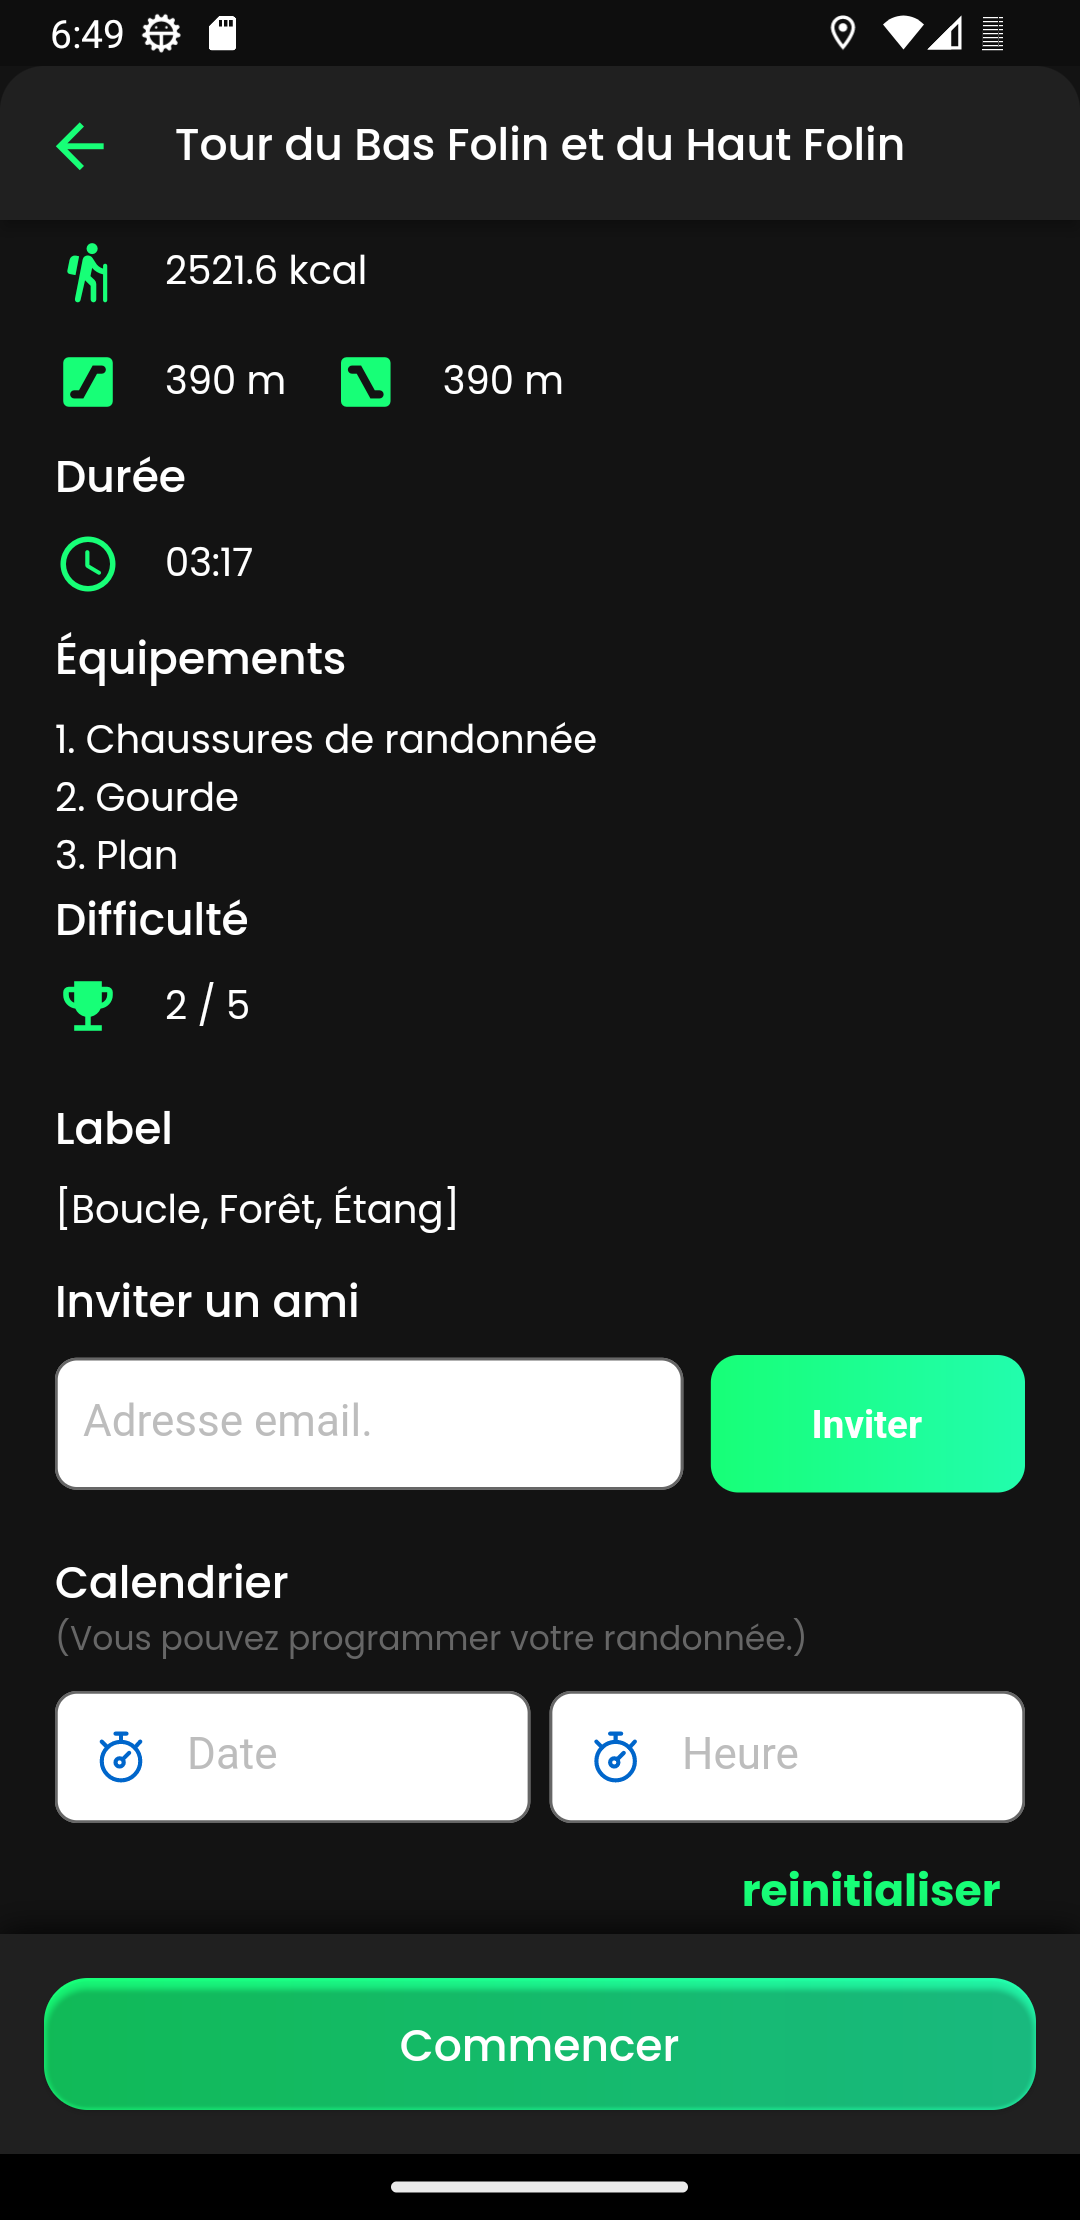
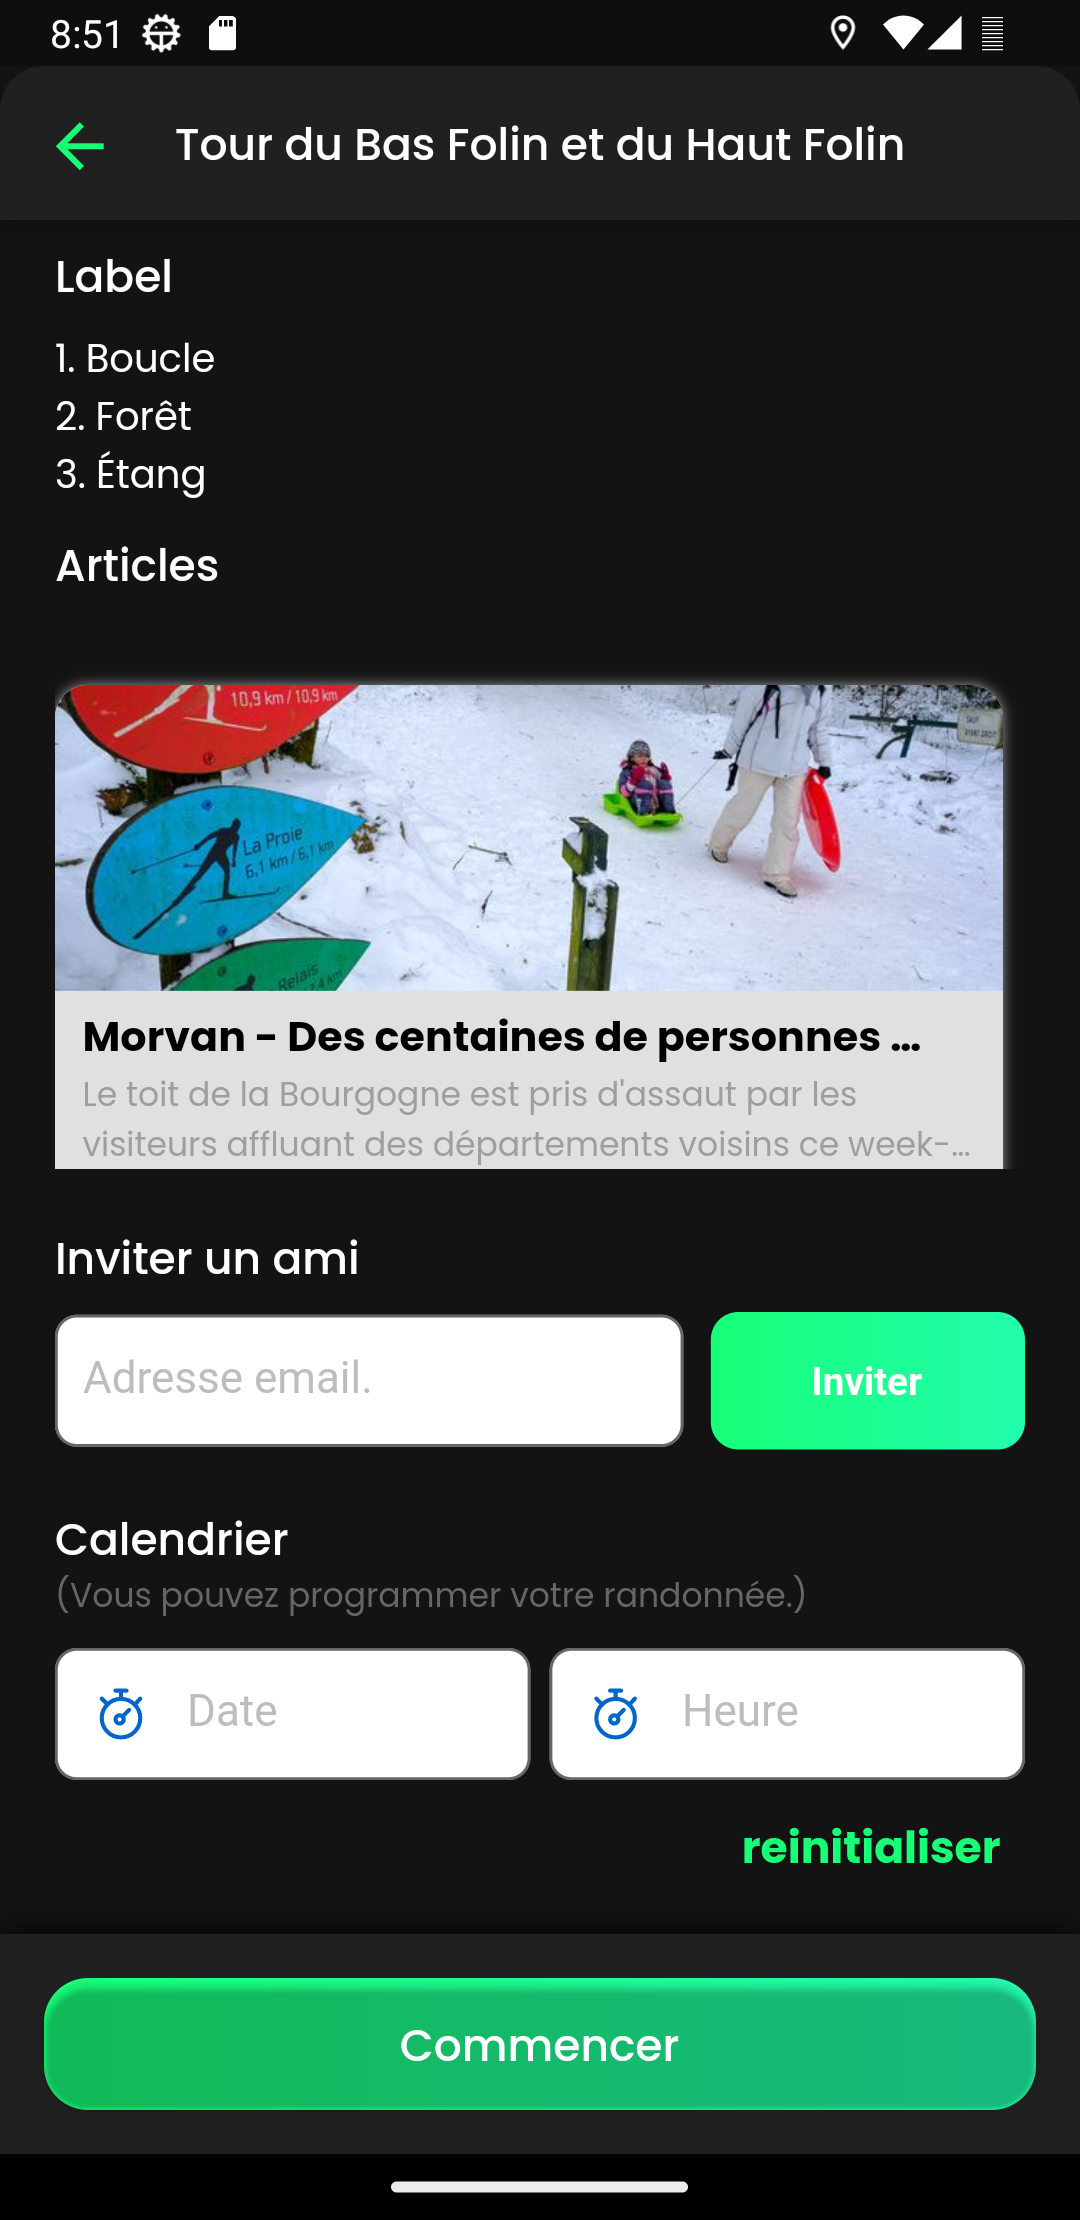
update

diff --git a/frontend/user/hike.rst b/frontend/user/hike.rst
@@ -9,10 +9,15 @@ The user can also invite a friend by enter his email adress but it's not mandato
 
 After that he receives a notification.
 
-The user can also see in the section "Mes randonnées" the hike that he creates
+The user can  see in the section "Mes randonnées" the hike that he creates.
+
+The user also can see the article that which corresponds to the place, if the user
+
+click, he arrives on the web pages.
 
 .. image:: invite1.png
 .. image:: invite.png
 ..  image:: schedule.png
-..  image:: schedules.png
+..  image:: schedule2.png
 ..  image:: hike.png
+..  image:: article.png

diff --git a/frontend/comment/comment.rst b/frontend/comment/comment.rst
@@ -8,3 +8,4 @@ The user of the app has the possibility to comment a hiking trail.
 The user can add a picture.
 
     .. image:: comment.png
+    .. image:: comment1.png
